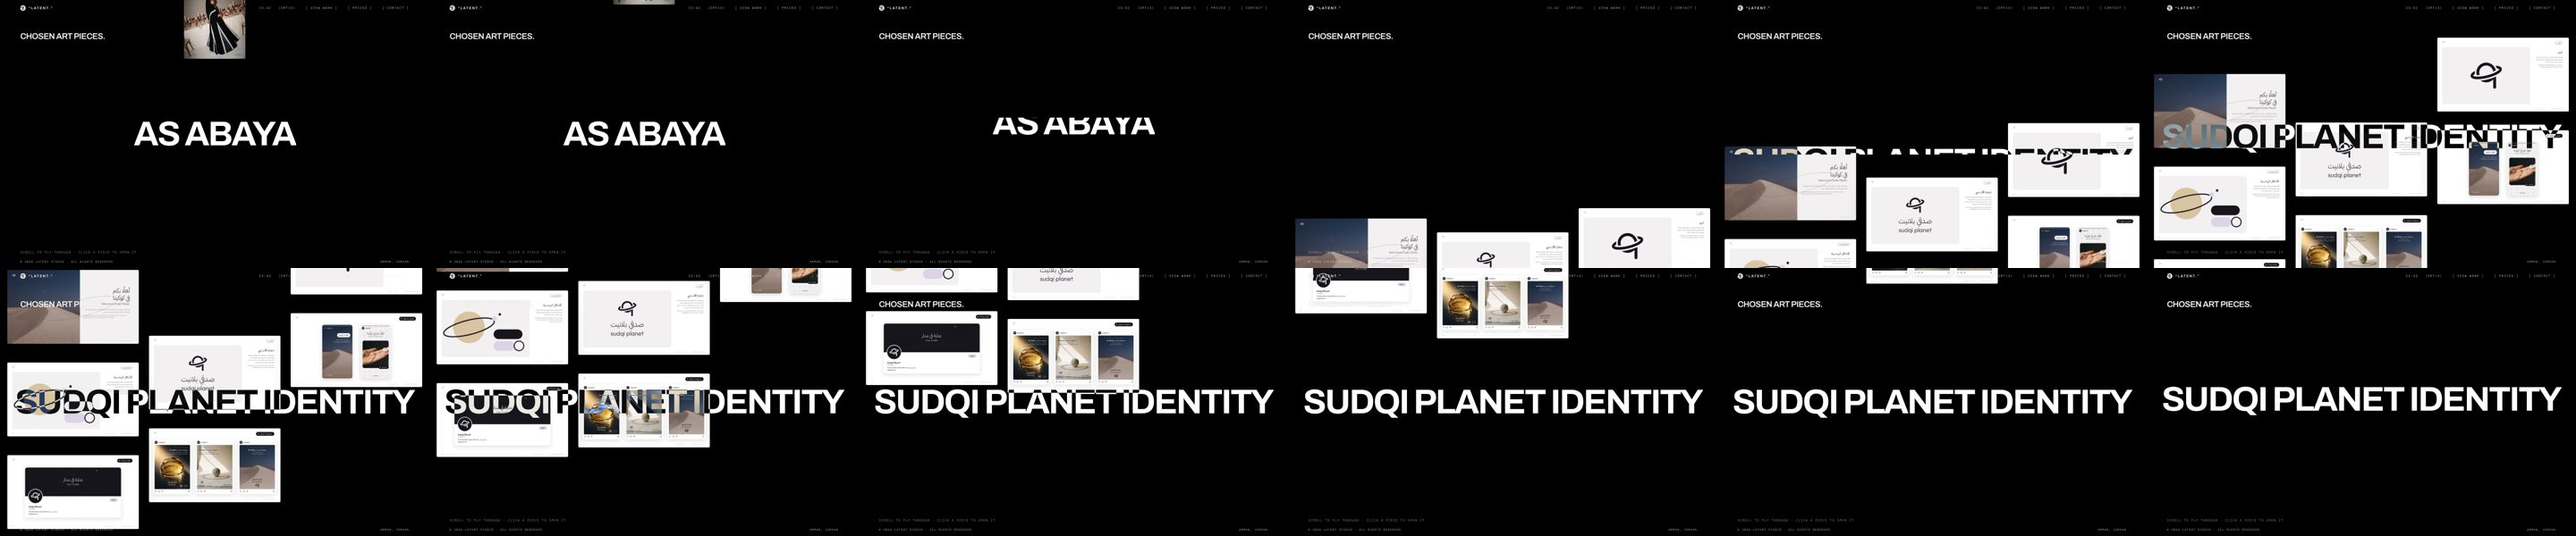
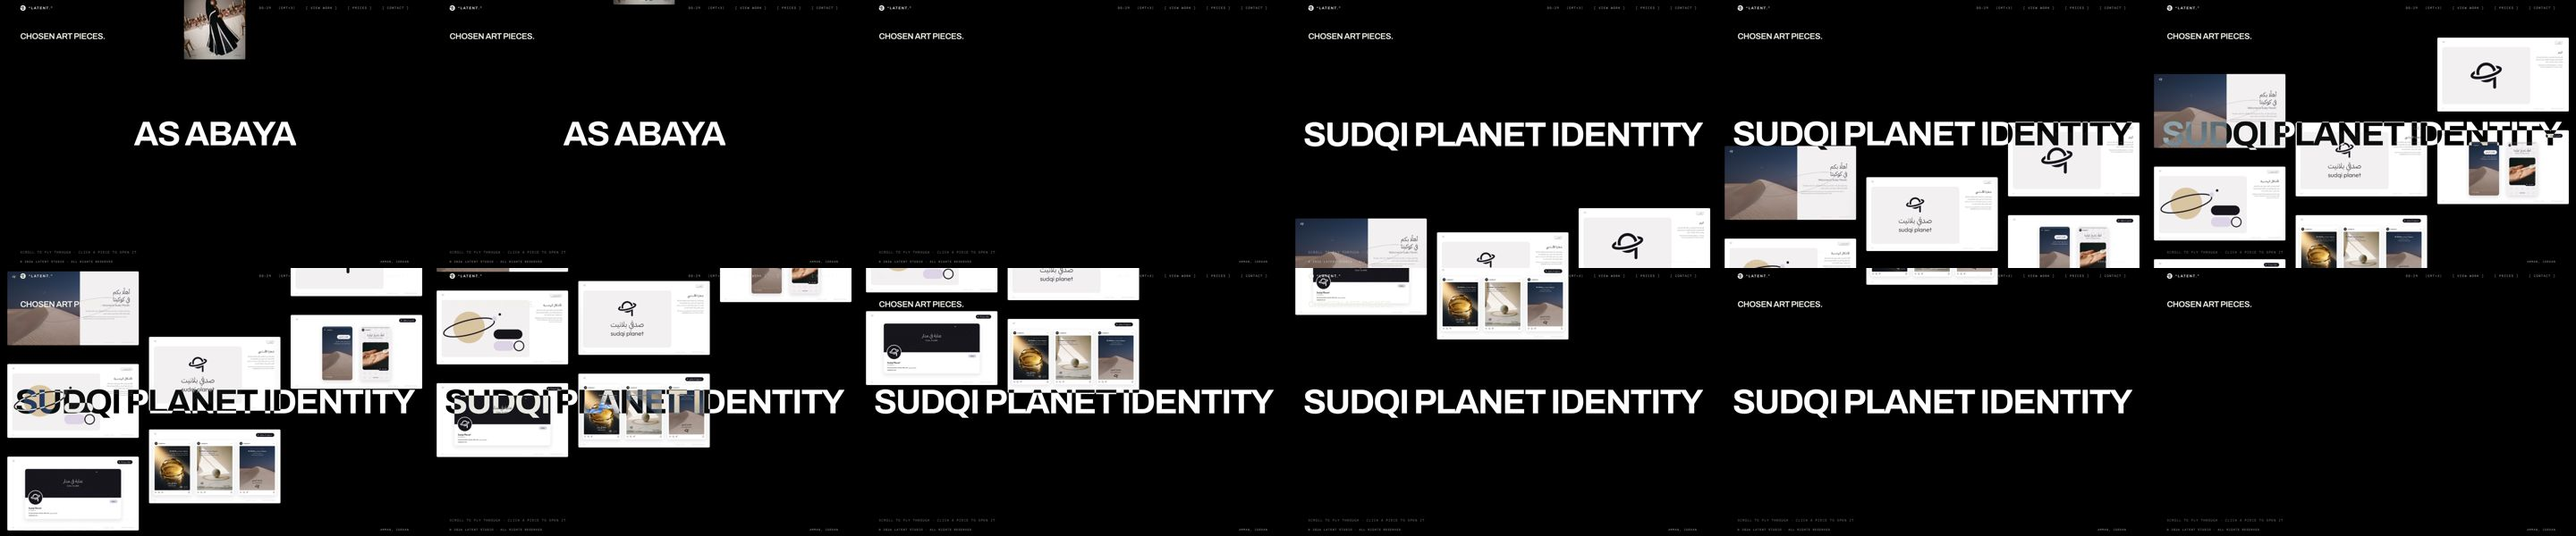
E: the field's name arrives a beat before its pieces and rises faster
Claude-Session: https://claude.ai/code/session_0142D8cuVtdJreCuNyu9fMo2

diff --git a/latent-v3e/index.html b/latent-v3e/index.html
@@ -2541,8 +2541,8 @@ html.pg-snap{scroll-snap-type:y proximity}
 .fy-h{margin:clamp(10px,2vh,18px) 0;font-family:"Archivo","Helvetica Neue",Arial,sans-serif;font-weight:700;font-size:clamp(40px,8vw,132px);line-height:.95;letter-spacing:-.04em;text-transform:uppercase;color:#fff}
 .fy-h .pgw{display:inline-block;overflow:hidden;vertical-align:bottom;padding:0 .02em .12em;margin:0 -.02em -.12em}
 .fy-h .pgw-in{display:inline-block;transform:translateY(112%);transition:none}
-.fy-name.on .pgw-in{transform:none;transition:transform 1.1s cubic-bezier(.16,1,.3,1) .5s}
-.fy-name.off .pgw-in{transform:translateY(-112%);transition:transform .5s cubic-bezier(.7,0,.3,1)}
+.fy-name.on .pgw-in{transform:none;transition:transform .65s cubic-bezier(.16,1,.3,1) .1s}
+.fy-name.off .pgw-in{transform:translateY(-112%);transition:transform .35s cubic-bezier(.7,0,.3,1)}
 .fy-mono{margin:0;font-family:"IBM Plex Mono",monospace;font-size:11px;letter-spacing:.16em;text-transform:uppercase;color:rgba(242,239,231,.7)}
 .fy-mono b{font-weight:500;color:var(--ember)}
 .fy-hint{position:absolute;left:var(--gut);bottom:clamp(24px,5vh,48px);margin:0;font-family:"IBM Plex Mono",monospace;font-size:11px;letter-spacing:.14em;text-transform:uppercase;color:rgba(242,239,231,.5);z-index:5}
@@ -4698,7 +4698,7 @@ html.pg-snap{scroll-snap-type:y proximity}
       o.el.style.visibility = "visible";
       o.el.style.transform = "translate3d(calc(-50% + " + (o.x * vw / 100).toFixed(1) + "px), calc(-50% + " + (y * vh / 100).toFixed(1) + "px), 0)";
     });
-    var band = -1; for(var k = 0; k < bands.length; k++){ if(cam >= bands[k][0] - 1 && cam <= bands[k][1] + 1){ band = k; break; } }
+    var band = -1; for(var k = 0; k < bands.length; k++){ if(cam >= bands[k][0] - 12 && cam <= bands[k][1] + 1){ band = k; break; }   /* the name comes a beat before its first piece */ }
     if(band !== at){ names.forEach(function(n, k){ n.classList.toggle("off", k === at); n.classList.toggle("on", k === band); }); at = band; }
   }
   function tick(){

diff --git a/latent-v3-src/e_patch_fly.py b/latent-v3-src/e_patch_fly.py
@@ -50,8 +50,8 @@ CSS='''
 .fy-h{margin:clamp(10px,2vh,18px) 0;font-family:"Archivo","Helvetica Neue",Arial,sans-serif;font-weight:700;font-size:clamp(40px,8vw,132px);line-height:.95;letter-spacing:-.04em;text-transform:uppercase;color:#fff}
 .fy-h .pgw{display:inline-block;overflow:hidden;vertical-align:bottom;padding:0 .02em .12em;margin:0 -.02em -.12em}
 .fy-h .pgw-in{display:inline-block;transform:translateY(112%);transition:none}
-.fy-name.on .pgw-in{transform:none;transition:transform 1.1s cubic-bezier(.16,1,.3,1) .5s}
-.fy-name.off .pgw-in{transform:translateY(-112%);transition:transform .5s cubic-bezier(.7,0,.3,1)}
+.fy-name.on .pgw-in{transform:none;transition:transform .65s cubic-bezier(.16,1,.3,1) .1s}
+.fy-name.off .pgw-in{transform:translateY(-112%);transition:transform .35s cubic-bezier(.7,0,.3,1)}
 .fy-mono{margin:0;font-family:"IBM Plex Mono",monospace;font-size:11px;letter-spacing:.16em;text-transform:uppercase;color:rgba(242,239,231,.7)}
 .fy-mono b{font-weight:500;color:var(--ember)}
 .fy-hint{position:absolute;left:var(--gut);bottom:clamp(24px,5vh,48px);margin:0;font-family:"IBM Plex Mono",monospace;font-size:11px;letter-spacing:.14em;text-transform:uppercase;color:rgba(242,239,231,.5);z-index:5}
@@ -95,7 +95,7 @@ JS='''
       o.el.style.visibility = "visible";
       o.el.style.transform = "translate3d(calc(-50% + " + (o.x * vw / 100).toFixed(1) + "px), calc(-50% + " + (y * vh / 100).toFixed(1) + "px), 0)";
     });
-    var band = -1; for(var k = 0; k < bands.length; k++){ if(cam >= bands[k][0] - 1 && cam <= bands[k][1] + 1){ band = k; break; } }
+    var band = -1; for(var k = 0; k < bands.length; k++){ if(cam >= bands[k][0] - 12 && cam <= bands[k][1] + 1){ band = k; break; }   /* the name comes a beat before its first piece */ }
     if(band !== at){ names.forEach(function(n, k){ n.classList.toggle("off", k === at); n.classList.toggle("on", k === band); }); at = band; }
   }
   function tick(){
